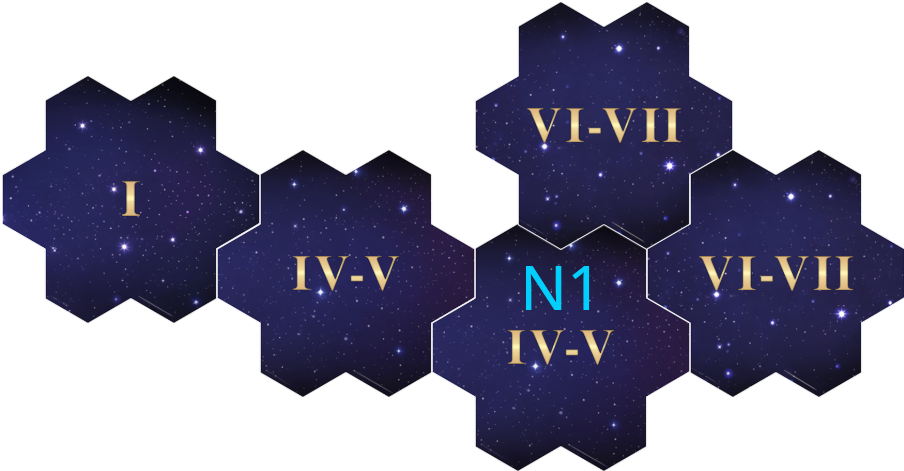
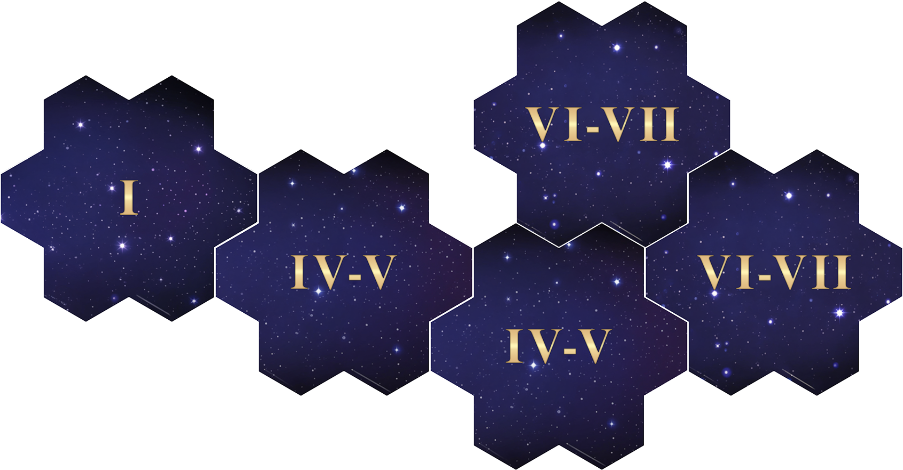
Fix gold rush images

diff --git a/draft-scenarios/clash/gold_rush.tex b/draft-scenarios/clash/gold_rush.tex
@@ -150,9 +150,16 @@ After paying a tranche, \textbf{remove all Black Cubes} from every Windmill and 
 \begin{tikzpicture}[overlay]
     \centering
     \node at (4.4, 5.5) {\includegraphics[width=0.45\textwidth]{\maps/gold_rush-solo.png}};
+    \node at (5.4, 5.05) {\large{{\textbf{\textcolor{deepskyblue}{N1}}}}};
     \node at (4.4, 2.5) {\footnotesize{\textbf{SOLO VARIANT}}};
+
     \node at (4.5, -2) {\includegraphics[width=0.48\textwidth]{\maps/gold_rush-1v1.png}};
-    \node at (4.5, -6) {\footnotesize{\textbf{1v1 VARIANT}}};
+    \node at (4.9, 0.3) {\large{{\textbf{\textcolor{deepskyblue}{N1}}}}};
+    \node at (4.5, -1.5) {\large{{\textbf{\textcolor{deepskyblue}{\#C1}}}}};
+    \node at (4.1, -3.3) {\large{{\textbf{\textcolor{deepskyblue}{C2}}}}};
+    \node at (4.1, -6) {\footnotesize{\textbf{1v1 VARIANT}}};
+
     \node at (13.6, -4) {\includegraphics[width=0.52\textwidth]{\maps/gold_rush-2v2.png}};
+    \node at (13.6, -3.5) {\large{{\textbf{\textcolor{deepskyblue}{N1}}}}};
     \node at (13.6, -8.5) {\footnotesize{\textbf{2v2 VARIANT}}};
 \end{tikzpicture}

diff --git a/draft-scenarios/metadata.tex b/draft-scenarios/metadata.tex
@@ -154,8 +154,9 @@
 \definecolor{bistre}{rgb}{0.24, 0.17, 0.12}
 \definecolor{cadmiumgreen}{rgb}{0.0, 0.42, 0.24}
 \definecolor{camel}{rgb}{0.76, 0.6, 0.42}
-\definecolor{darkcandyapplered}{rgb}{0.64, 0.0, 0.0}
 \definecolor{cobalt}{rgb}{0.0, 0.28, 0.67}
+\definecolor{darkcandyapplered}{rgb}{0.64, 0.0, 0.0}
+\definecolor{deepskyblue}{rgb}{0.0, 0.75, 1.0}
 \definecolor{goldenbrown}{rgb}{0.6, 0.4, 0.08}
 
 % Command to frame images

diff --git a/metadata.tex b/metadata.tex
@@ -154,8 +154,9 @@
 \definecolor{bistre}{rgb}{0.24, 0.17, 0.12}
 \definecolor{cadmiumgreen}{rgb}{0.0, 0.42, 0.24}
 \definecolor{camel}{rgb}{0.76, 0.6, 0.42}
-\definecolor{darkcandyapplered}{rgb}{0.64, 0.0, 0.0}
 \definecolor{cobalt}{rgb}{0.0, 0.28, 0.67}
+\definecolor{darkcandyapplered}{rgb}{0.64, 0.0, 0.0}
+\definecolor{deepskyblue}{rgb}{0.0, 0.75, 1.0}
 \definecolor{goldenbrown}{rgb}{0.6, 0.4, 0.08}
 
 % Command to frame images
